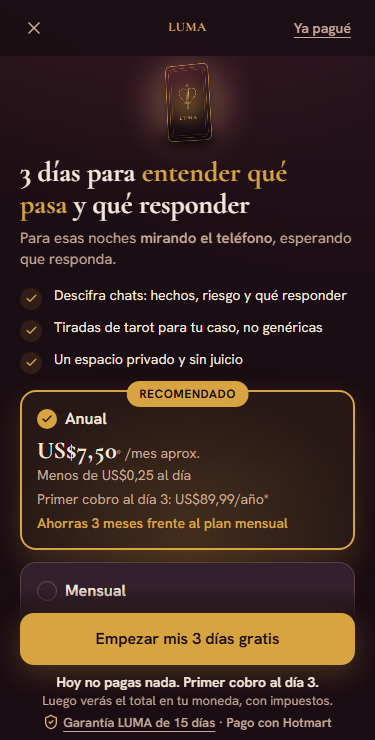
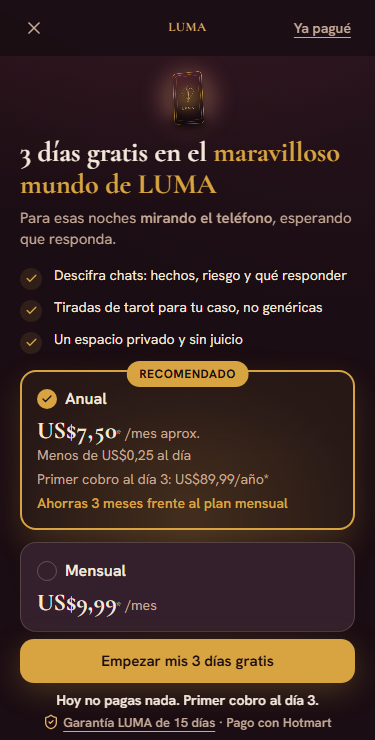
feat: titulo nuevo en planes, caja inferior mas baja y planes lado a lado en computadora

Changed region(s): [[0.0293, 0.0932, 0.968, 0.9635], [0.0293, 0.7459, 0.0587, 0.777]]

diff --git a/app/paywall/page.tsx b/app/paywall/page.tsx
@@ -130,30 +130,31 @@ export default function PaywallLuma() {
         </a>
       </div>
 
-      <div className="mx-auto flex w-full max-w-[480px] flex-1 flex-col px-5 pb-52 pt-2">
+      <div className="mx-auto flex w-full max-w-[480px] sm:max-w-[640px] flex-1 flex-col px-5 pb-32 pt-4 sm:pt-8">
         {/* Dispositivo ownable de FICHA-ARTE — repite el motivo del funnel (Hero,
             Casos, PlanListo), en tamaño reducido y sin animación de entrada. */}
         <motion.div
           initial={{ opacity: 0, y: reduce ? 0 : 10 }}
           animate={{ opacity: 1, y: 0 }}
           transition={{ duration: reduce ? 0.2 : 0.4, ease: [0.16, 1, 0.3, 1] }}
-          className="flex justify-center"
+          className="flex justify-center [@media(max-height:700px)]:hidden"
         >
-          <div className="h-[84px] scale-[0.4] [transform-origin:top]">
+          <div className="h-14 scale-[0.27] [transform-origin:top]">
             <CartaSacerdotisa animar={false} />
           </div>
         </motion.div>
 
-        {/* Headline: promesa concreta (entender qué pasa y qué responder) + la escena del avatar en el subtítulo; sin prometer un resultado emocional */}
+        {/* Headline elegido por la dueña (28-nov): tono de magia + «gratis». Lo concreto lo explican los beneficios de
+            justo debajo; el subtítulo mantiene la escena del avatar. */}
         {/* Fundido con CSS puro: el título es el LCP y no debe esperar a que cargue el JavaScript (38) */}
-        <div className="luma-fade-in mt-2">
+        <div className="luma-fade-in mt-2 sm:mt-4">
           {lecturaUsada && (
             <p className="mb-3 rounded-[var(--radius-card)] border border-[color-mix(in_oklab,var(--accent)_40%,transparent)] bg-[color-mix(in_oklab,var(--accent)_10%,transparent)] px-3 py-2 text-[13px] font-semibold leading-snug text-[var(--text-primary)]">
               Ya usaste tu lectura gratis. Con los {TRIAL_DIAS} días de prueba tienes LUMA completa.
             </p>
           )}
           <h1 className="text-balance text-[28px] font-bold leading-[1.15] text-[var(--text-primary)] [font-family:var(--font-display)]">
-            <MarkedCopy text={`${TRIAL_DIAS} días para [acento]entender qué pasa[/acento] y qué responder`} />
+            <MarkedCopy text={`${TRIAL_DIAS} días gratis en el [acento]maravilloso mundo de LUMA[/acento]`} />
           </h1>
           {/* Ancla emocional de FICHA-AVATAR (se repite landing+onboarding+paywall):
               "obsesionada mirando el teléfono" → "en 1 minuto entiendes qué pasa" */}
@@ -167,7 +168,7 @@ export default function PaywallLuma() {
           initial={{ opacity: 0, y: reduce ? 0 : 10 }}
           animate={{ opacity: 1, y: 0 }}
           transition={{ duration: reduce ? 0.2 : 0.4, delay: 0.05, ease: [0.16, 1, 0.3, 1] }}
-          className={`mt-4 flex flex-col gap-2 ${listo ? '' : 'invisible'}`}
+          className={`mt-4 flex flex-col gap-2 sm:mt-6 sm:gap-3 ${listo ? '' : 'invisible'}`}
         >
           {beneficios.map((b, i) => (
             <li key={i} className="flex items-start gap-3 text-[14px] leading-snug text-[var(--text-primary)]">
@@ -182,7 +183,7 @@ export default function PaywallLuma() {
           initial={{ opacity: 0, y: reduce ? 0 : 10 }}
           animate={{ opacity: 1, y: 0 }}
           transition={{ duration: reduce ? 0.2 : 0.4, delay: 0.15, ease: [0.16, 1, 0.3, 1] }}
-          className="relative mt-4"
+          className="relative mt-4 sm:mt-8"
         >
           {/* 2º resplandor: la página es larga y el bloom del body (fijo, cerca
               del header) no llega hasta aquí — sin esto la mitad inferior se
@@ -204,7 +205,7 @@ export default function PaywallLuma() {
             onSeleccionar={setSeleccionado}
           />
           <p className="mt-2 text-center text-[13px] leading-snug text-[var(--text-secondary)]">
-            * Precios en US$, más impuestos y en tu moneda local.
+            * Precios en US$. Al pagar verás el total en tu moneda, con impuestos.
           </p>
         </motion.div>
 
@@ -250,7 +251,7 @@ export default function PaywallLuma() {
 
       {/* CTA fijo al fondo: siempre a la vista desde la primera pantalla (ronda 6 del revisor).
           Va fuera de los bloques animados porque un transform rompe position:fixed. */}
-      <div className="fixed inset-x-0 bottom-0 z-20 bg-gradient-to-t from-[var(--bg)] from-80% to-transparent pb-2 pt-6">
+      <div className="fixed inset-x-0 bottom-0 z-20 bg-gradient-to-t from-[var(--bg)] from-80% to-transparent pb-2 pt-3">
         <div className="mx-auto w-full max-w-[480px] px-5">
           <motion.button
             type="button"
@@ -273,7 +274,7 @@ export default function PaywallLuma() {
               }
             }}
             whileTap={abriendoPago ? undefined : { scale: 0.97 }}
-            className="flex h-[52px] w-full items-center justify-center rounded-[var(--radius-button)] bg-[var(--accent)] text-[16px] font-semibold text-[var(--bg)] shadow-[0_8px_30px_color-mix(in_oklab,var(--accent)_25%,transparent)] transition-opacity [touch-action:manipulation] focus-visible:outline-none focus-visible:ring-2 focus-visible:ring-[var(--accent)] disabled:opacity-70"
+            className="flex h-11 w-full items-center justify-center rounded-[var(--radius-button)] bg-[var(--accent)] text-[15px] font-semibold text-[var(--bg)] shadow-[0_8px_30px_color-mix(in_oklab,var(--accent)_25%,transparent)] transition-opacity [touch-action:manipulation] focus-visible:outline-none focus-visible:ring-2 focus-visible:ring-[var(--accent)] disabled:opacity-70"
           >
             {abriendoPago ? (
               <span className="flex items-center gap-2" role="status">
@@ -292,9 +293,6 @@ export default function PaywallLuma() {
           {/* Antes de saltar a Hotmart: allí se ve primero el total en moneda local (los días gratis quedan más abajo) */}
           <p className="mt-2 text-center text-sm font-semibold leading-snug text-[var(--text-primary)]">
             Hoy no pagas nada. Primer cobro al día {TRIAL_DIAS}.
-          </p>
-          <p className="text-balance text-center text-[13px] leading-snug text-[var(--text-secondary)]">
-            Luego verás el total en tu moneda, con impuestos.
           </p>
           <p className="mt-1 text-center text-[13px] font-semibold leading-snug text-[var(--text-secondary)]">
             <ShieldCheck size={16} aria-hidden="true" className="mr-1 inline align-[-3px] text-[var(--accent-lite)]" />

diff --git a/components/paywall/PlanCards.tsx b/components/paywall/PlanCards.tsx
@@ -42,7 +42,7 @@ function Card({
       animate={seleccionado && !reduce ? { scale: [1, 1.025, 1] } : { scale: 1 }}
       transition={{ duration: 0.3, ease: [0.16, 1, 0.3, 1] }}
       whileTap={{ scale: 0.98 }}
-      className={`relative w-full rounded-[var(--radius-card)] border p-4 text-left transition-colors duration-150 [touch-action:manipulation] focus-visible:outline-none focus-visible:ring-2 focus-visible:ring-[var(--accent)] ${
+      className={`relative w-full rounded-[var(--radius-card)] border p-4 text-left sm:flex sm:flex-col sm:justify-start transition-colors duration-150 [touch-action:manipulation] focus-visible:outline-none focus-visible:ring-2 focus-visible:ring-[var(--accent)] ${
         seleccionado
           ? 'border-transparent bg-[color-mix(in_oklab,var(--accent)_7%,transparent)] shadow-[0_12px_32px_color-mix(in_oklab,var(--accent)_18%,transparent)]'
           : 'border-[color-mix(in_oklab,var(--text-tertiary)_28%,transparent)] bg-[var(--surface)]'
@@ -111,7 +111,7 @@ export function PlanCards({
     <div
       role="radiogroup"
       aria-label="Elige tu plan"
-      className="flex flex-col gap-3"
+      className="flex flex-col gap-3 sm:grid sm:grid-cols-2"
       onKeyDown={(e) => {
         if (!["ArrowUp", "ArrowDown", "ArrowLeft", "ArrowRight"].includes(e.key)) return;
         e.preventDefault();

diff --git a/ESTADO.md b/ESTADO.md
@@ -8,6 +8,16 @@ Hallazgos: 1 persona nueva (24-nov) eligió plan y no llegó ningún aviso de co
 anuales como mensuales (el código de oferta no contiene «anual») y un aviso sin oferta pisaba el plan guardado. Ahora
 lib/plan-hotmart.ts decide por el código de oferta y devuelve null si no lo sabe. tsc ✓ 100 pruebas ✓ build ✓. Sin
 cambios en la base. Falta confirmarlo con una compra anual real.
+28-nov título ELEGIDO por ella y puesto en local (SIN publicar, espera «publica»): «3 días gratis en el maravilloso
+mundo de LUMA». tsc ✓ 100 pruebas ✓ build ✓.
+28-nov (SIN publicar) seguía apretado: caja fija más baja (151→113px, botón 44px), aviso de moneda movido a la nota bajo
+los planes y más aire arriba. Propuso título «3 días para adentrarte en el maravilloso mundo de LUMA»: le recomendé
+mantener el actual (más largo y no promete un resultado); decide ella.
+28-nov aclaró «angosto» = apretado: en pantallas ≥640px (computadora) los planes van lado a lado, columna de 640px y más
+separación (a 750×660 todo visible con 80px libres sobre el botón); el celular queda compacto como abajo.
+28-nov (2º ajuste, SIN publicar, espera «publica»): ella vio mucho aire abajo y el Mensual apretado arriba → menos
+relleno final (hueco 81→33px), carta superior más pequeña (oculta en pantallas de menos de 700px de alto) y bloques más
+juntos; el precio mensual ya se ve a 375×740 y 750×660 (a 360×640 sigue tapado hasta desplazar).
 28-nov revisión del paso al pago (sin pagar, 375px, España): eligió ANUAL. Hotmart muestra arriba «105,27 € / año» y los
 3 días gratis quedan abajo (la app mostraba US$7,50/mes y US$89,99); además insignia «MÁS POPULAR» sin datos que la
 respalden (app/paywall/page.tsx). Propuesta pendiente de OK: «Hoy no pagas nada» junto al botón, aviso de moneda e IVA
